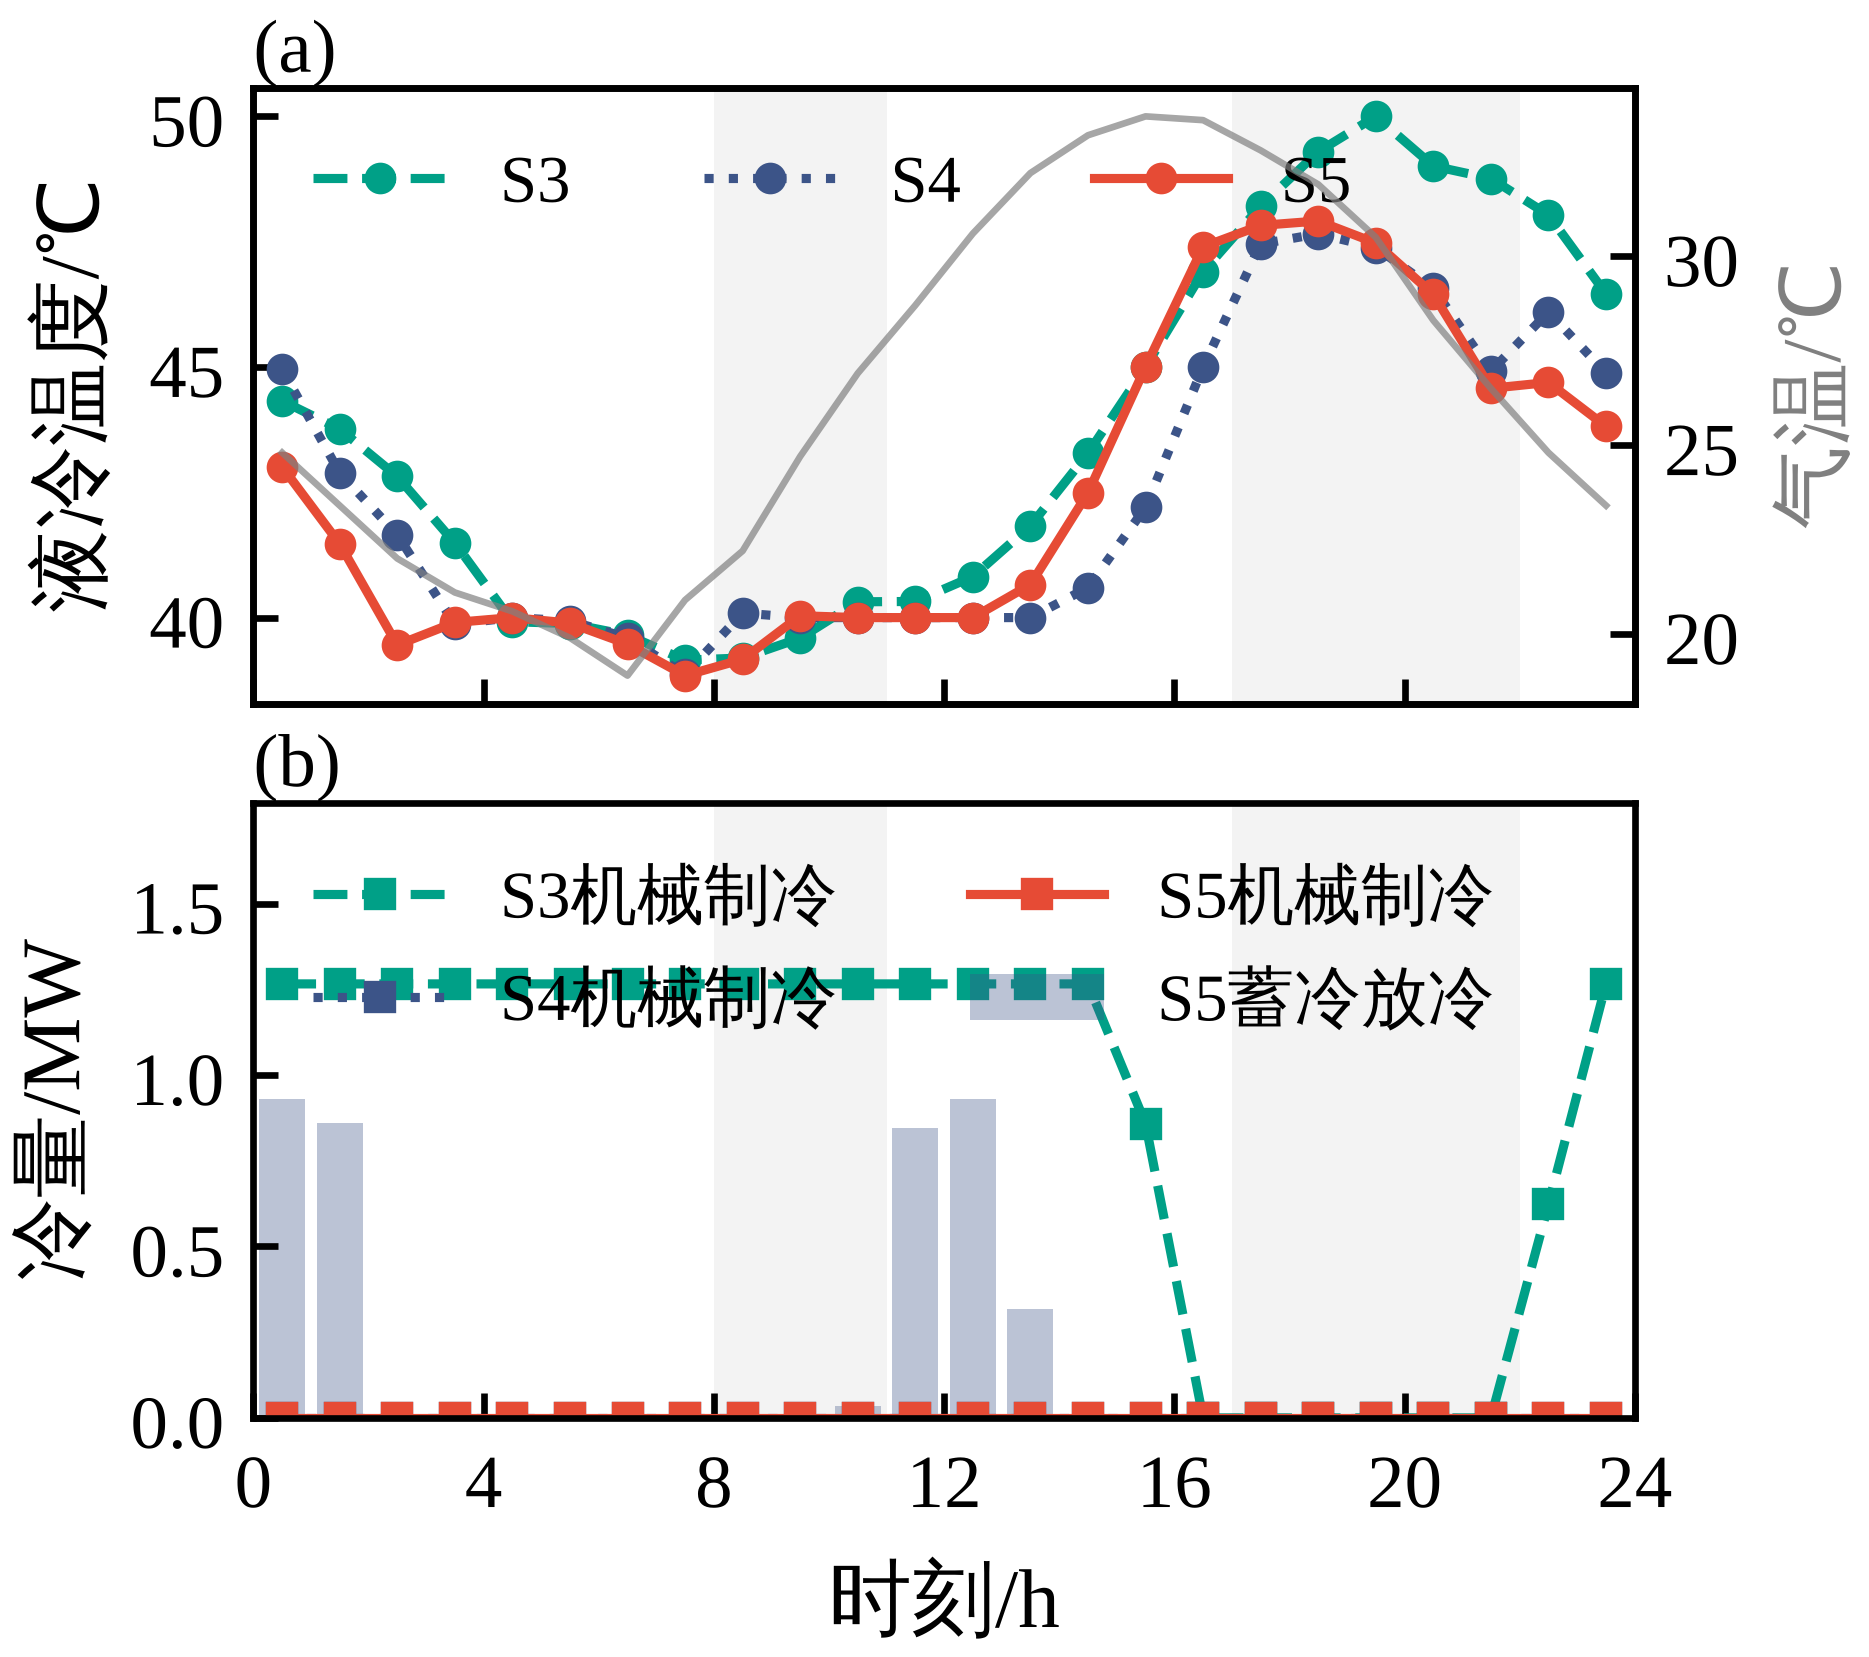
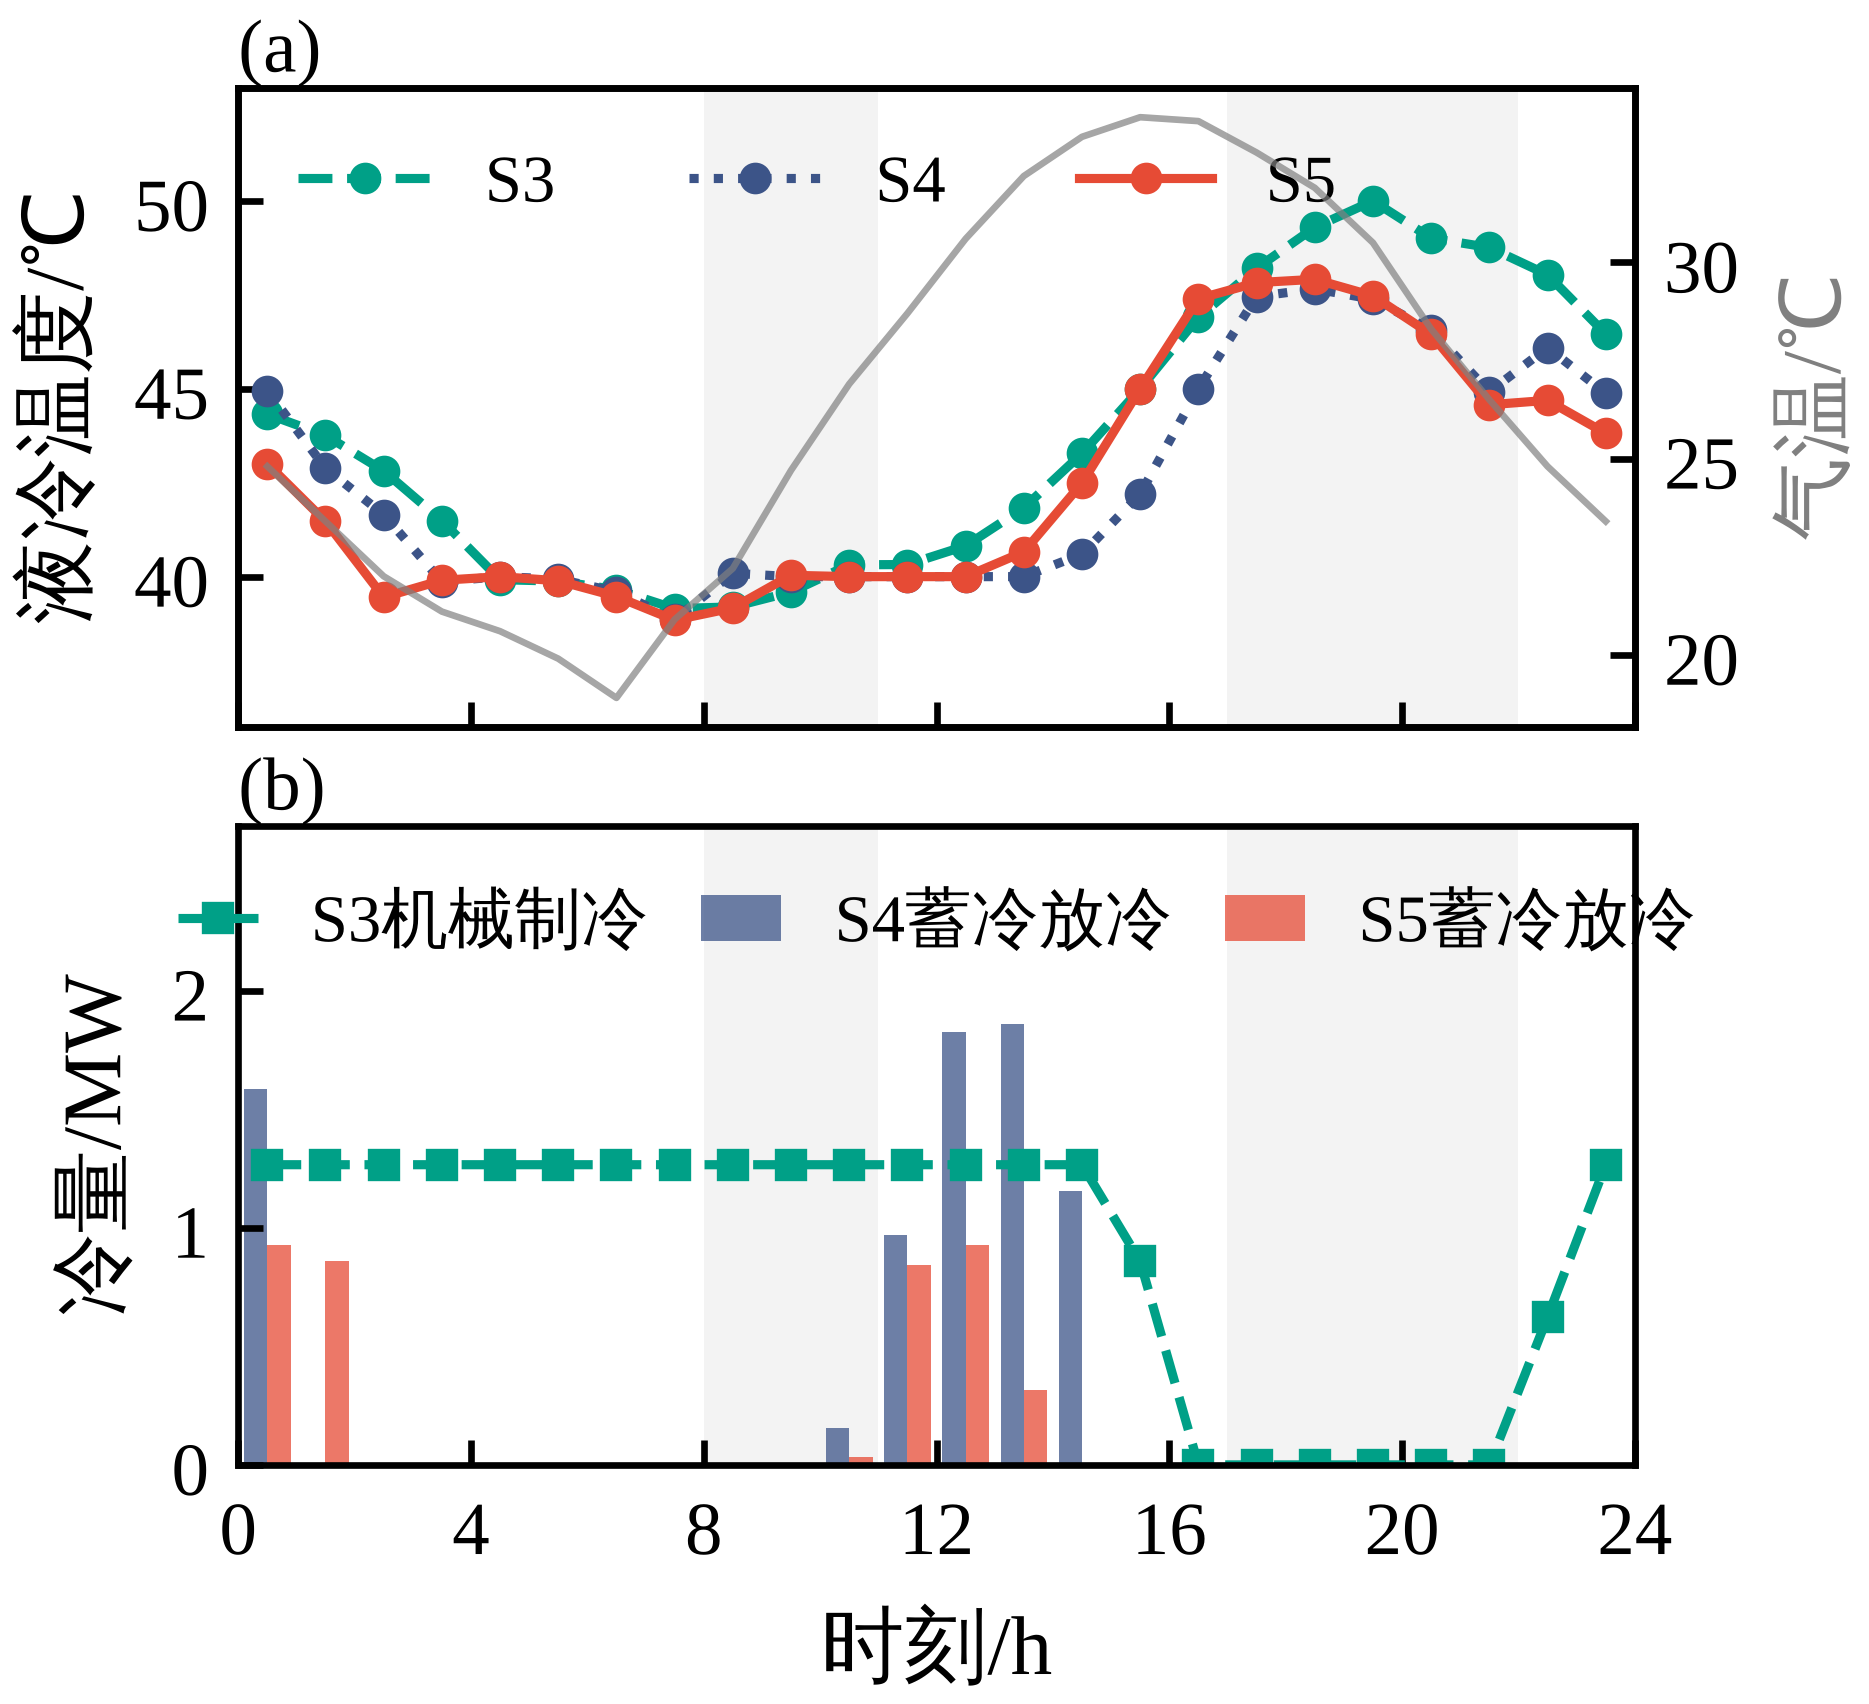
图9改为冷机与蓄冷放冷对比
Claude-Session: https://claude.ai/code/session_01TAApdR6hLaGsBrJbJ5bzRE

diff --git a/v3/code/plot_v4.py b/v3/code/plot_v4.py
@@ -128,17 +128,23 @@ def fig_gears():
 def fig_thermal():
     hs, _ = days("DRO_S5", "2023-06-15"); h3, _ = days("DRO_S3", "2023-06-15"); h4, _ = days("DRO_S4", "2023-06-15")
     if hs is None: return
-    fig, axs = plt.subplots(2, 1, figsize=(W, 7.6 * CM), sharex=True); t = np.arange(24) + 0.5; rows = []
+    fig, axs = plt.subplots(2, 1, figsize=(W, 7.8 * CM), sharex=True); t = np.arange(24) + 0.5; rows = []
     for s, h, ls in (("S3", h3, "--"), ("S4", h4, ":"), ("S5", hs, "-")):
         if h is None: continue
         axs[0].plot(t, h["液冷温度"], ls, color=C[s], marker="o", ms=2.8, label=s)
-        axs[1].plot(t, h["机械制冷"] / 1e3, ls, color=C[s], marker="s", ms=2.8, label=f"{s}机械制冷")
-        for i in range(24): rows.append(dict(场景=s, 时刻=i, 液冷温度=h["液冷温度"][i], 机械制冷_kW=h["机械制冷"][i], 蓄冷放冷_kW=h["蓄冷放冷"][i], 气温=h["气温"][i]))
-    axs[1].bar(t, hs["蓄冷放冷"] / 1e3, 0.8, color="#3C5488", alpha=0.35, label="S5蓄冷放冷")
+        for i in range(24): rows.append(dict(场景=s, 时刻=i, 液冷温度=h["液冷温度"][i], 机械制冷_kW=h["机械制冷"][i], 蓄冷放冷_kW=h["蓄冷放冷"][i],
+                                            蓄冷充冷_kW=h["蓄冷充冷"][i], 自然冷却_kW=h["自然冷却"][i], 气温=h["气温"][i]))
     shade(axs[0], P["PEAK_H"]); shade(axs[1], P["PEAK_H"])
-    axs[0].set_ylabel("液冷温度/℃"); axs[0].legend(ncol=3, loc="upper left", fontsize=8); axs[0].set_title("(a)", fontsize=9, loc="left", pad=2)
-    axs[1].set_ylim(0, axs[1].get_ylim()[1] * 1.35); axs[1].set_ylabel("冷量/MW"); axs[1].legend(ncol=2, loc="upper left", fontsize=8); axs[1].set_title("(b)", fontsize=9, loc="left", pad=2)
-    a3 = axs[0].twinx(); a3.plot(t, hs["气温"], color="gray", lw=0.8, alpha=0.7); a3.set_ylabel("气温/℃", color="gray")
+    a3 = axs[0].twinx(); a3.plot(t, hs["气温"], color="gray", lw=0.8, alpha=0.7, label="气温"); a3.set_ylabel("气温/℃", color="gray")
+    axs[0].set_ylabel("液冷温度/℃"); axs[0].set_ylim(36, 53); axs[0].legend(ncol=3, loc="upper left", fontsize=8)
+    axs[0].set_title("(a)", fontsize=9, loc="left", pad=2)
+    if h3 is not None: axs[1].plot(t, h3["机械制冷"] / 1e3, "--", color=C["S3"], marker="s", ms=2.8, label="S3机械制冷")
+    w = 0.4
+    if h4 is not None: axs[1].bar(t - w / 2, h4["蓄冷放冷"] / 1e3, w, color=C["S4"], alpha=0.75, label="S4蓄冷放冷")
+    axs[1].bar(t + w / 2, hs["蓄冷放冷"] / 1e3, w, color=C["S5"], alpha=0.75, label="S5蓄冷放冷")
+    top = max((h3["机械制冷"].max() if h3 is not None else 0), (h4["蓄冷放冷"].max() if h4 is not None else 0), hs["蓄冷放冷"].max()) / 1e3
+    axs[1].set_ylim(0, top * 1.45); axs[1].set_ylabel("冷量/MW"); axs[1].legend(ncol=3, loc="upper center", fontsize=8, handlelength=1.2, columnspacing=0.8)
+    axs[1].set_title("(b)", fontsize=9, loc="left", pad=2)
     hours(axs[1]); fig.tight_layout(h_pad=0.3); save(fig, "图9_夏季典型日液冷温度与冷源", pd.DataFrame(rows))
 
 
